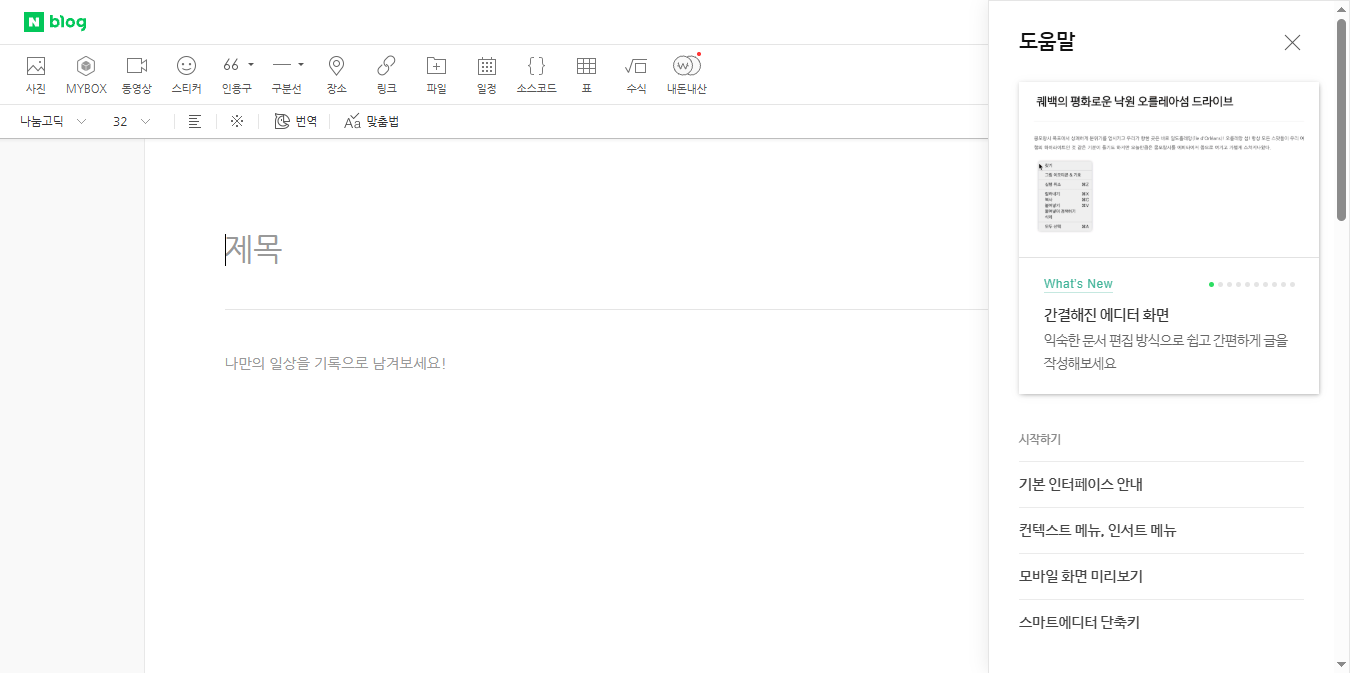
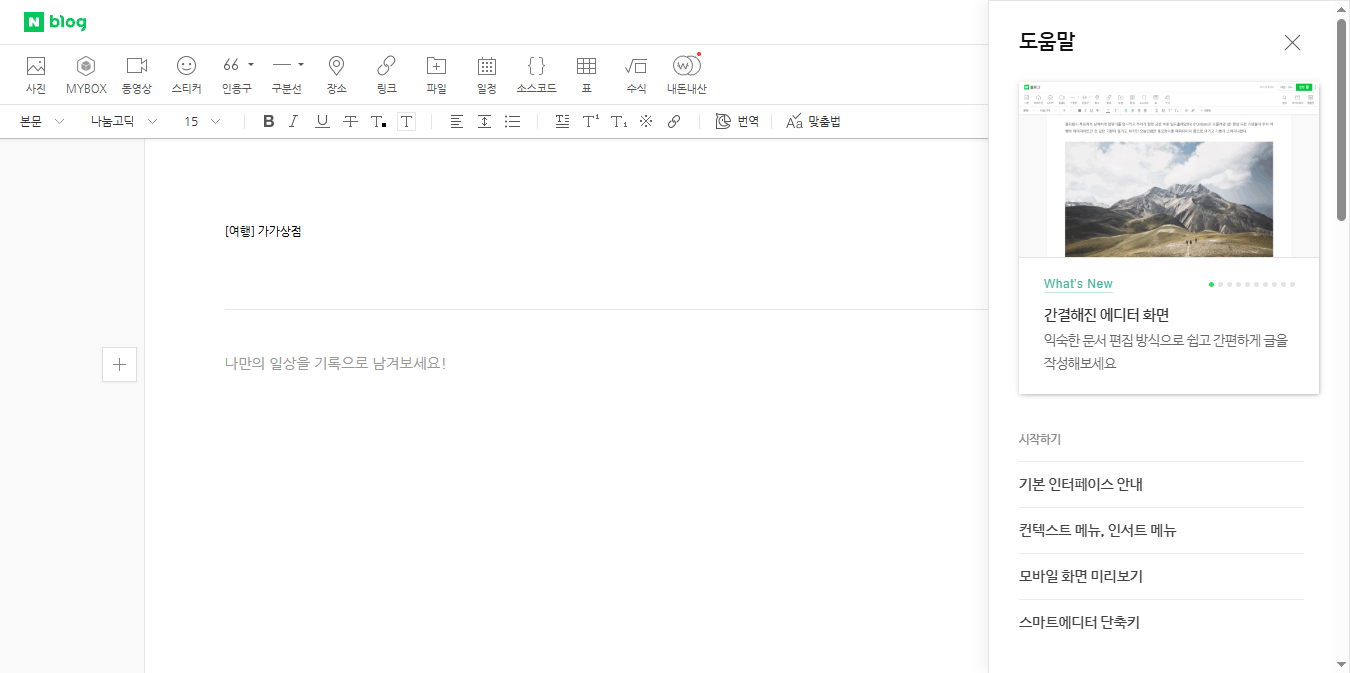
블로그 제목입력 성공

diff --git a/src/services/blog.service.js b/src/services/blog.service.js
@@ -4,7 +4,6 @@ const CONFIG = require('../config/config');
 
 class BlogService {
     constructor() {
-        // screenshots 디렉토리 생성
         this.screenshotDir = path.join(process.cwd(), 'screenshots');
         if (!fs.existsSync(this.screenshotDir)) {
             fs.mkdirSync(this.screenshotDir, { recursive: true });
@@ -12,56 +11,91 @@ class BlogService {
     }
 
     async createBlogPost(browser, contentItem) {
+        if (!contentItem || !contentItem.title || typeof contentItem.title !== 'string') {
+            throw new Error('contentItem 또는 title이 유효하지 않습니다.');
+        }
+
         console.log(`새 포스트 작성 시작: ${contentItem.title}`);
         const page = await browser.newPage();
 
         try {
             await page.goto(CONFIG.writePostURL, {
-                waitUntil: 'domcontentloaded',
+                waitUntil: 'networkidle0',
                 timeout: 60000,
             });
 
-            // 현재 페이지 URL 출력 (디버깅용)
             const currentURL = page.url();
             console.log('현재 URL:', currentURL);
 
-            // 로그인 여부 확인
             if (currentURL.includes('login.naver.com')) {
                 throw new Error('로그인이 되어 있지 않습니다.');
             }
 
-            try {
-                await page.screenshot({
-                    path: path.join(this.screenshotDir, 'write_page_loaded.png'),
-                });
-            } catch (screenshotError) {
-                console.warn('스크린샷 저장 실패:', screenshotError.message);
-            }
+            await page.waitForFunction(() => document.readyState === 'complete');
 
-            // 제목 입력 대기 및 시도
+            await page.screenshot({
+                path: path.join(this.screenshotDir, 'write_page_loaded.png'),
+            });
+
+            // 제목 입력
             try {
-                const subjectSelector = '#subject';
-                await page.waitForSelector(subjectSelector, { timeout: 15000 });
-                await page.type(subjectSelector, contentItem.title);
+                const frameSelector = 'iframe#mainFrame';
+                await page.waitForSelector(frameSelector, { timeout: 30000 });
+
+                let frame = null;
+                for (let i = 0; i < 10; i++) {
+                    const frameHandle = await page.$(frameSelector);
+                    frame = await frameHandle?.contentFrame();
+                    if (frame) break;
+                    await page.waitForTimeout(1000);
+                }
+
+                if (!frame) {
+                    await page.screenshot({ path: path.join(this.screenshotDir, 'mainFrame_no_contentFrame.png') });
+                    throw new Error('iframe의 contentFrame을 끝내 불러오지 못했습니다.');
+                }
+
+                await frame.waitForFunction(() => document.readyState === 'complete', { timeout: 30000 });
+
+                const subjectSelector = '.se-documentTitle .se-module-text';
+                await frame.waitForSelector(subjectSelector, {
+                    timeout: 30000,
+                    visible: true,
+                });
+
+                await frame.evaluate(
+                    (selector, title) => {
+                        const titleElement = document.querySelector(selector);
+                        if (titleElement) {
+                            titleElement.innerText = title;
+                        } else {
+                            throw new Error('제목 입력 요소를 찾을 수 없습니다.');
+                        }
+                    },
+                    subjectSelector,
+                    contentItem.title,
+                );
+
                 console.log('제목 입력 완료');
             } catch (titleError) {
                 console.error('제목 입력 실패:', titleError.message);
                 throw new Error('제목 입력 실패');
             }
 
-            // 본문 입력 (iframe)
+            // 본문 입력
             try {
                 const frameSelector = 'iframe[title="본문 편집 영역"]';
                 await page.waitForSelector(frameSelector, { timeout: 15000 });
                 const editorFrameHandle = await page.$(frameSelector);
+                if (!editorFrameHandle) throw new Error('본문 iframe 핸들을 찾을 수 없습니다.');
                 const editorFrame = await editorFrameHandle.contentFrame();
+                if (!editorFrame) throw new Error('본문 iframe 콘텐츠에 접근할 수 없습니다.');
 
                 await editorFrame.evaluate((content) => {
                     document.body.innerHTML = `<p>${content.replace(/\n/g, '<br>')}</p>`;
                 }, contentItem.content);
                 console.log('본문 입력 완료');
 
-                // 출처 추가
                 await editorFrame.evaluate((source) => {
                     const sourcePara = document.createElement('p');
                     sourcePara.innerHTML = `<br><br>출처: ${source}`;
@@ -90,7 +124,7 @@ class BlogService {
                 }
             }
 
-            // 카테고리 선택
+            // 카테고리
             try {
                 const categorySelector = 'select[name="category"]';
                 await page.waitForSelector(categorySelector, { timeout: 5000 });
@@ -120,7 +154,7 @@ class BlogService {
                 console.warn('공개 설정 실패:', privacyError.message);
             }
 
-            // 발행 버튼 클릭
+            // 발행
             try {
                 const publishSelector = 'button.se_publish, button[data-module="PostSubmit"]';
                 await page.waitForSelector(publishSelector, { timeout: 10000 });
@@ -128,7 +162,6 @@ class BlogService {
                 await publishBtn.click();
                 console.log('발행 버튼 클릭 완료');
 
-                // 발행 완료 대기
                 await page.waitForNavigation({
                     waitUntil: 'networkidle0',
                     timeout: 30000,
